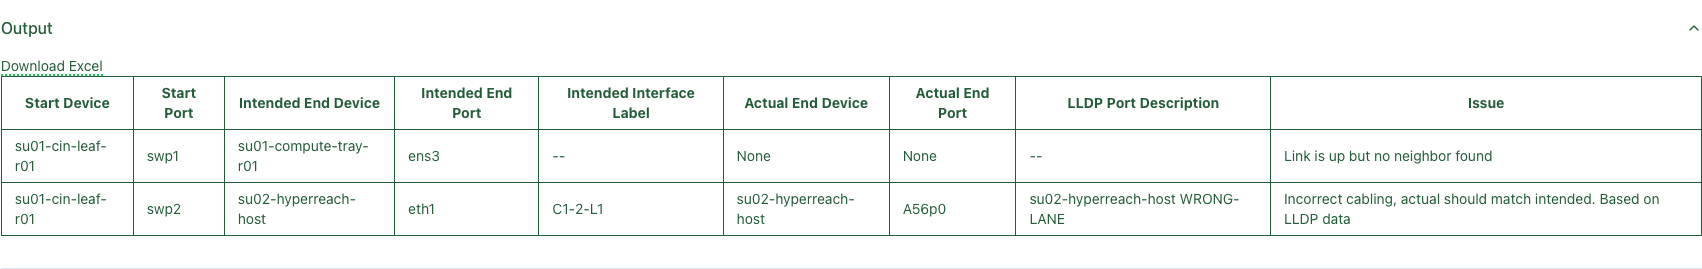
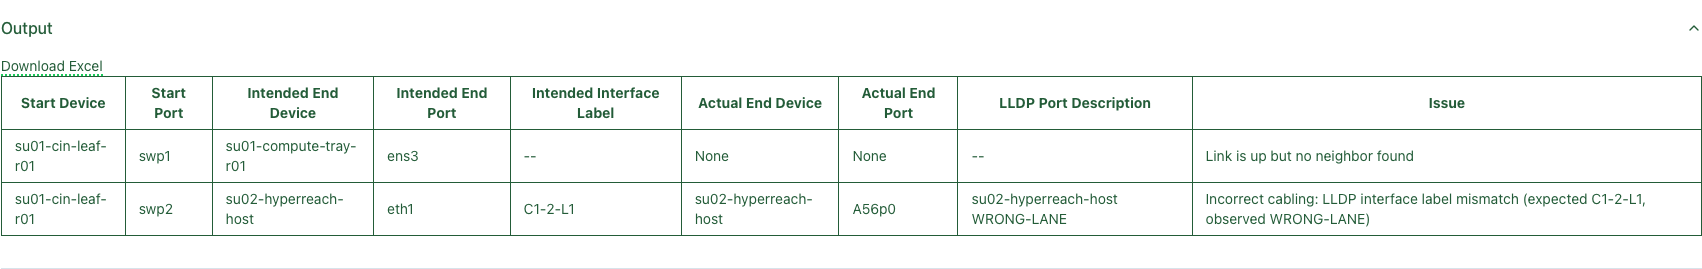
fix(workflows): explain LLDP interface label mismatches

diff --git a/ui/tests/docs-screenshots/hyperreachReports.spec.ts b/ui/tests/docs-screenshots/hyperreachReports.spec.ts
@@ -143,6 +143,12 @@ for (const example of examples) {
     ).toBeVisible();
     if (example.workflowType === "SiteCableValidationWorkflow") {
       await expect(
+        row.getByRole("cell", {
+          name: "Incorrect cabling: LLDP interface label mismatch (expected C1-2-L1, observed WRONG-LANE)",
+          exact: true,
+        })
+      ).toBeVisible();
+      await expect(
         row.getByRole("cell", { name: "eth1", exact: true })
       ).toBeVisible();
       await expect(

diff --git a/packages/workflows/tests/activities/test_cable_validation_helpers.py b/packages/workflows/tests/activities/test_cable_validation_helpers.py
@@ -98,6 +98,101 @@ class TestLaneMetadata:
         if issue_kind == "lldp":
             assert row.intended_end_port == "eth1"
             assert row.actual_end_port == "A56p0"
+            assert row.issue == (
+                "Incorrect cabling: LLDP interface label mismatch "
+                "(expected C1-2-L1, observed WRONG-LANE)"
+            )
+
+    @pytest.mark.parametrize(
+        ("label", "description", "chassis_name", "is_label_mismatch"),
+        [
+            ("C1-2-L1", "su02-hyperreach-host WRONG-LANE", None, True),
+            ("C1-2-L1", "SU02-HYPERREACH-HOST wrong-lane", None, True),
+            ("C1-2-L1", "tray-chassis WRONG-LANE", "tray-chassis", True),
+            ("C1-2-L1", "su02-hyperreach-host c1-2-l1", None, False),
+            (None, "su02-hyperreach-host WRONG-LANE", None, False),
+            ("", "su02-hyperreach-host WRONG-LANE", None, False),
+            ("C1-2-L1", "wrong-host WRONG-LANE", None, False),
+            ("C1-2-L1", "su02-hyperreach-host", None, False),
+            ("C1-2-L1", "su02-hyperreach-host WRONG LANE", None, False),
+            ("C1-2-L1", None, None, False),
+        ],
+    )
+    def test_label_diagnostic_requires_matching_description_hostname(
+        self,
+        label: str | None,
+        description: str | None,
+        chassis_name: str | None,
+        is_label_mismatch: bool,
+    ) -> None:
+        """Keep other LLDP errors distinct from a confirmed interface-label mismatch."""
+        row = _format_single_interface_row(
+            "su01-cin-leaf-r01",
+            None,
+            "swp2",
+            InvalidCable(
+                intended=InterfaceNeighborData(
+                    name="eth1",
+                    device_name="su02-hyperreach-host",
+                    chassis_name=chassis_name,
+                    label=label,
+                ),
+                actual=InterfaceNeighborData(
+                    name="A56p0",
+                    device_name="su02-hyperreach-host",
+                    port_description=description,
+                    link_up=True,
+                ),
+            ),
+        )
+
+        assert row is not None
+        if is_label_mismatch:
+            assert description is not None
+            assert row.issue == (
+                "Incorrect cabling: LLDP interface label mismatch "
+                f"(expected {label}, observed {description.split()[1]})"
+            )
+        else:
+            assert (
+                row.issue == "Incorrect cabling, actual should match intended. Based on LLDP data"
+            )
+
+    @pytest.mark.parametrize("export", ["csv", "xlsx"])
+    def test_label_diagnostic_is_escaped_for_display_and_preserved_in_exports(
+        self, export: str
+    ) -> None:
+        """Keep inventory text in one Markdown cell without changing downloadable evidence."""
+        row = _format_single_interface_row(
+            "su01-cin-leaf-r01",
+            None,
+            "swp2",
+            InvalidCable(
+                intended=InterfaceNeighborData(name="eth1", device_name="host", label="C1|2\nL1"),
+                actual=InterfaceNeighborData(
+                    name="A56p0", device_name="host", port_description="host WRONG|LANE"
+                ),
+            ),
+        )
+
+        assert row is not None
+        expected_issue = (
+            "Incorrect cabling: LLDP interface label mismatch "
+            "(expected C1|2\nL1, observed WRONG|LANE)"
+        )
+        assert row.issue == expected_issue
+        assert row.to_markdown()["Issue"] == (
+            "Incorrect cabling: LLDP interface label mismatch "
+            r"(expected C1\|2 L1, observed WRONG\|LANE)"
+        )
+        assert _classify_issue(row.issue) == "miscabled"
+        markdown = _format_results_markdown(
+            [row], CSV_EXCLUDE_COLUMNS, MARKDOWN_EXCLUDE_COLUMNS, export=export
+        )
+        link, table = markdown.split("\n", 1)
+        assert len(table.splitlines()) == 3
+        detail = _decode_csv(link) if export == "csv" else _decode_workbook(link)["Cable Issues"]
+        assert detail.iloc[0]["Issue"] == expected_issue
 
     @pytest.mark.parametrize("export", ["csv", "xlsx"])
     @pytest.mark.parametrize(

diff --git a/packages/workflows/src/nv_config_manager_workflows/activities/cable_validation/helpers.py b/packages/workflows/src/nv_config_manager_workflows/activities/cable_validation/helpers.py
@@ -434,6 +434,24 @@ def _row_mac_mismatch(
     )
 
 
+def _lldp_mismatch_issue(intended: InterfaceNeighborData, actual: InterfaceNeighborData) -> str:
+    """Explain label mismatches when the description identifies the intended host."""
+    parts = (actual.port_description or "").split()
+    intended_host = intended.chassis_name or intended.device_name
+    if (
+        intended.label
+        and intended_host
+        and len(parts) == 2
+        and parts[0].lower() == intended_host.lower()
+        and parts[1].lower() != intended.label.lower()
+    ):
+        return (
+            f"{INCORRECT_CABLING_PREFIX}: LLDP interface label mismatch "
+            f"(expected {intended.label}, observed {parts[1]})"
+        )
+    return "Incorrect cabling, actual should match intended. Based on LLDP data"
+
+
 def _row_lldp_mismatch(
     device_name: str,
     interface_name: str,
@@ -458,7 +476,7 @@ def _row_lldp_mismatch(
         intended_end_rack=_rack_position_str(intended.device_rack, intended.device_position),
         actual_end_device=_display_or_macs(actual_device_name, actual.macs),
         actual_end_port=_display_or_macs(actual.name, actual.macs),
-        issue=("Incorrect cabling, actual should match intended. Based on LLDP data"),
+        issue=_lldp_mismatch_issue(intended, actual),
         troubleshooting_info=actual.ts_info,
     )
 

diff --git a/packages/workflows/src/nv_config_manager_workflows/activities/cable_validation/models.py b/packages/workflows/src/nv_config_manager_workflows/activities/cable_validation/models.py
@@ -118,7 +118,7 @@ class CableValidationRow(BaseModel):
         """Return dict of columns to include in markdown table (excludes MARKDOWN_EXCLUDE_COLUMNS)."""
         return {
             k: escape_markdown_cell(v)
-            if k in ("Intended Interface Label", "LLDP Port Description")
+            if k in ("Intended Interface Label", "LLDP Port Description", "Issue")
             else v
             for k, v in self.model_dump(by_alias=True).items()
             if k not in MARKDOWN_EXCLUDE_COLUMNS
